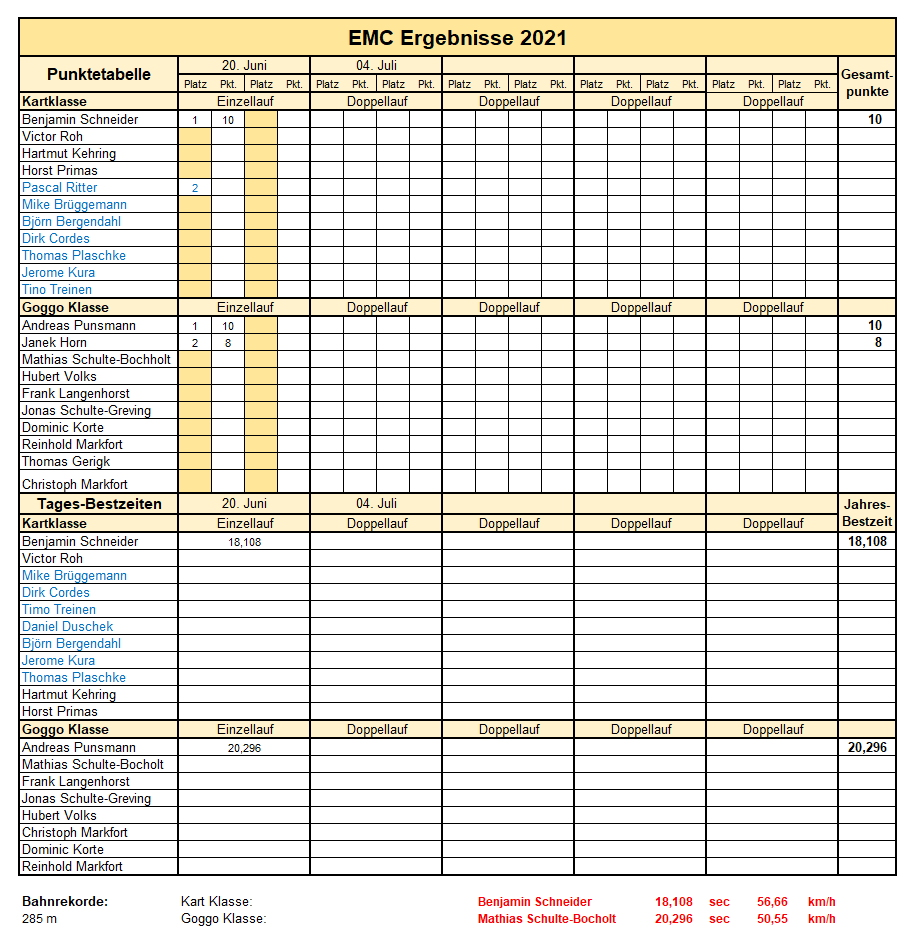
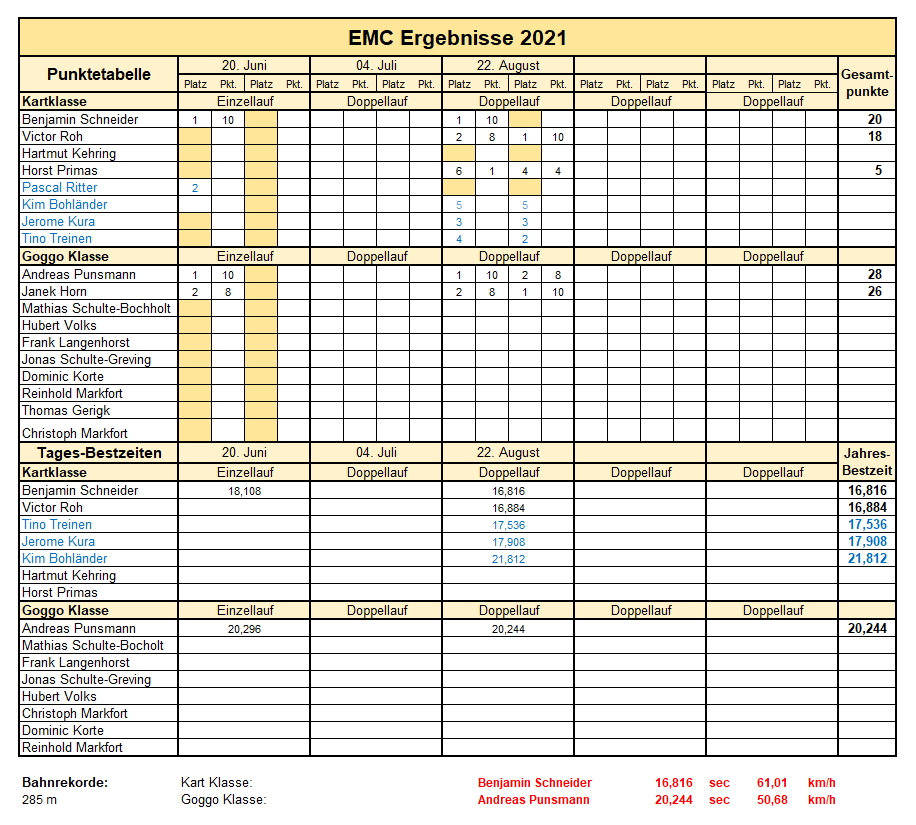
3. Rennen

diff --git a/index.html b/index.html
@@ -8,6 +8,53 @@ description: Kartsport mit "Goggo"-Karts und konventionellen Karts
 <!-------------------------------------------------------------------------->
 <h2 align="center">Das Jahr 2021</h2>
 
+<h3 align="center">3. Lauf um den Jahrespokal des EMC am 22. August 2021</h3>
+<p align="justify">
+  Am Sonntag, den 22. August, haben wir uns zum 3. Lauf um den EMC Jahrespokal
+  auf unserer Bahn getroffen. In der Goggo-Klasse waren leider nur 2 Fahrer
+  angetreten, um so erfreulicher war die Beteiligung in der Kartklasse mit 6
+  Fahrzeugen. Bei trockenem Wetter konnten wir in beiden Klassen zwei
+  Wertungsläufe durchführen.
+</p>
+<p align="justify">
+  In der Goggo-Klasse lieferten sich Andreas Punsmann und Janek Horn ein Rennen
+  auf gleichem Niveau. Den ersten Lauf konnte Andreas Punsman für sich
+  entscheiden, beim zweiten Lauf hatte er technische Probleme mit seinem Fahrzeug
+  und Janek Horn konnte den Sieg einfahren.
+
+</p>
+<p align="justify">
+  In der Kartklasse lagen Benjamin Schneider und Victor Roh sehr eng beieinander
+  und lieferten sich ein spannendes Rennen. Im ersten Lauf siegte Benjamin, beim
+  2. Lauf konnte er leider nicht mehr starten, da in der Einführungsrunde die
+  Antriebskette gerissen war. Victor siegte im zweiten Lauf, aber auch die
+  Gastfahrer Jerome Kura und Tino Treinen auf den weiteren Plätzen legten
+  beachtliche Zeiten vor.
+
+</p>
+<figure class="gesamt">           <!-- 2 Bilder nebeneinander anordnen -->
+      <figure class="einzel2">    <!-- Originalgröße 1630 x 1400 einstellen -->
+           <img src="img/rennen/2021.08.22_goggo.jpg" alt="Sieger Goggo" />
+           <figcaption>Tagessieger Goggo</figcaption>
+      </figure>
+      <figure class="einzel2">
+           <img src="img/rennen/2021.08.22_kart.jpg" alt="Sieger Kart" />
+           <figcaption>Tagessieger Kart</figcaption>
+      </figure>
+</figure>
+<div class="textspalten2">       <!-- Bildunterschrift in 2 Spalten anordnen -->
+   <ul>
+    	<li>1. Janek Horn</li>
+   		<li>2. Andreas Punsmann</li>
+   		<li>- </li>
+   		<li></li>
+   		<li>1. Victor Roh</li>
+      <li>2. Tino Treinen</li>
+      <li>3. Jerome Kura</li>
+      <li> </li>
+   </ul>
+</div>
+
 <h3 align="center">2. Lauf um den Jahrespokal des EMC am 04. Juli 2021</h3>
 <p align="justify">
   Am Sonntag, den 04. Juli, haben wir uns zum 2. Lauf auf unserer Bahn getroffen.

diff --git a/termine.html b/termine.html
@@ -53,7 +53,7 @@ description:
       <tr>
         <td>August</td>
         <td>5. August</td>
-        <td>22.8. oder 29.8.</td>
+        <td>22. August 3. Rennen</td>
       </tr>
       <tr>
         <td>September</td>
